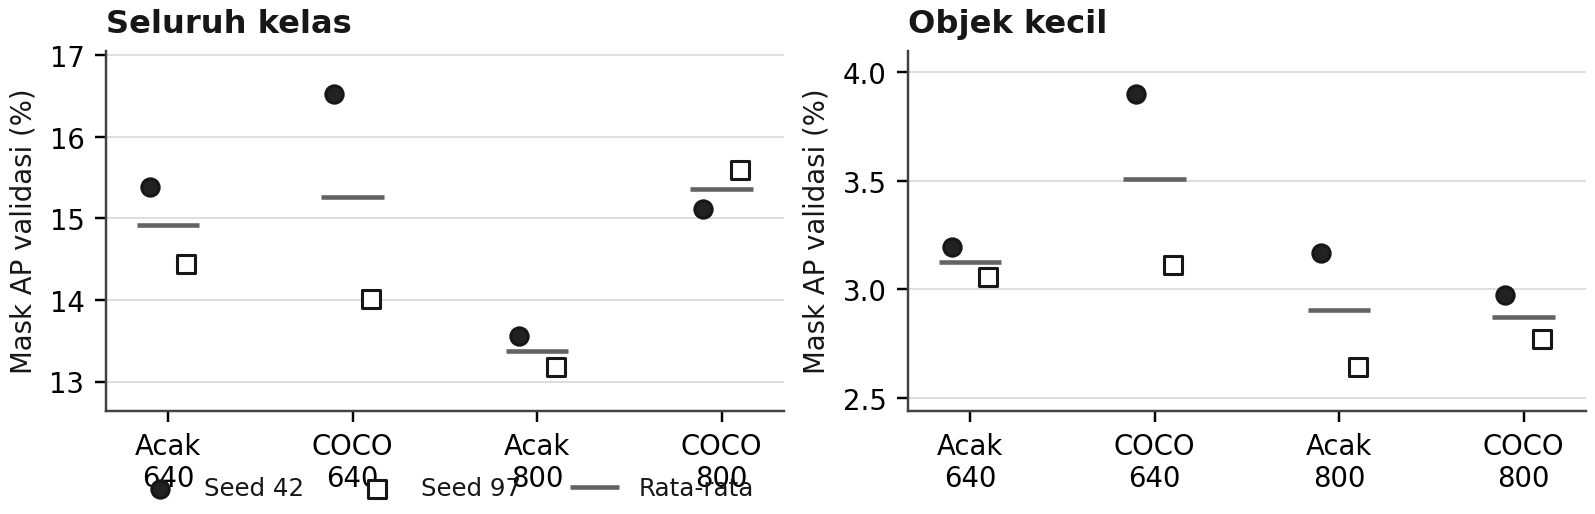
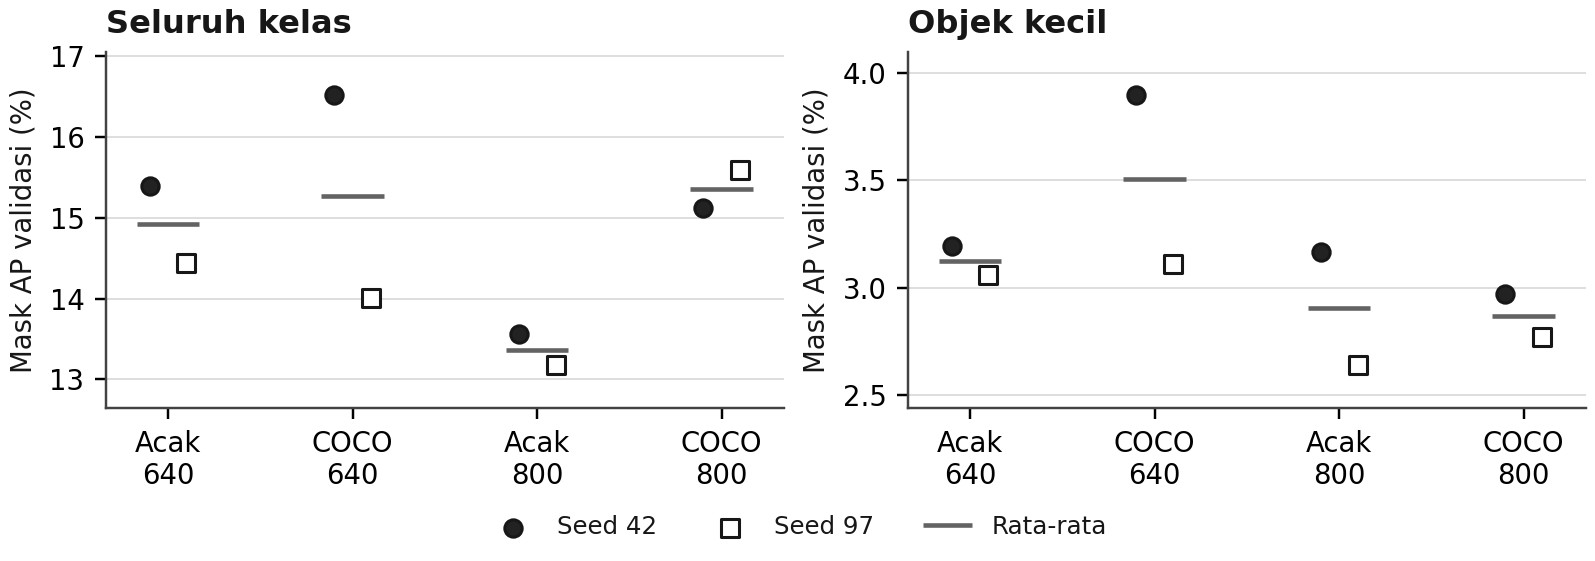
Rapikan legenda grafik validasi hitam putih

diff --git a/build_report_evidence.py b/build_report_evidence.py
@@ -318,7 +318,7 @@ def render_charts(data, destination):
 
     ordering = ("random-640", "coco-640", "random-800", "coco-800")
     labels = ("Acak\n640", "COCO\n640", "Acak\n800", "COCO\n800")
-    fig, axes = plt.subplots(1, 2, figsize=(7.25, 2.34), layout="constrained")
+    fig, axes = plt.subplots(1, 2, figsize=(7.25, 2.55), layout="constrained")
     for ax, field, title in zip(axes, ("ap_pct", "small_pct"), ("Seluruh kelas", "Objek kecil"), strict=True):
         for i, condition in enumerate(ordering):
             points = sorted((r for r in data["validation"] if r["condition"] == condition),
@@ -333,7 +333,8 @@ def render_charts(data, destination):
         ax.set_ylabel("Mask AP validasi (%)")
         ax.margins(y=.16)
         ax.grid(axis="y")
-    axes[0].legend(frameon=False, loc="lower center", bbox_to_anchor=(.5, -.31), ncols=3, fontsize=8)
+    handles, legend = axes[0].get_legend_handles_labels()
+    fig.legend(handles, legend, frameon=False, loc="outside lower center", ncols=3, fontsize=8)
     save(fig, "validasi-maskrcnn.png")
 
     fig, ax = plt.subplots(figsize=(7.25, 1.86), layout="constrained")
